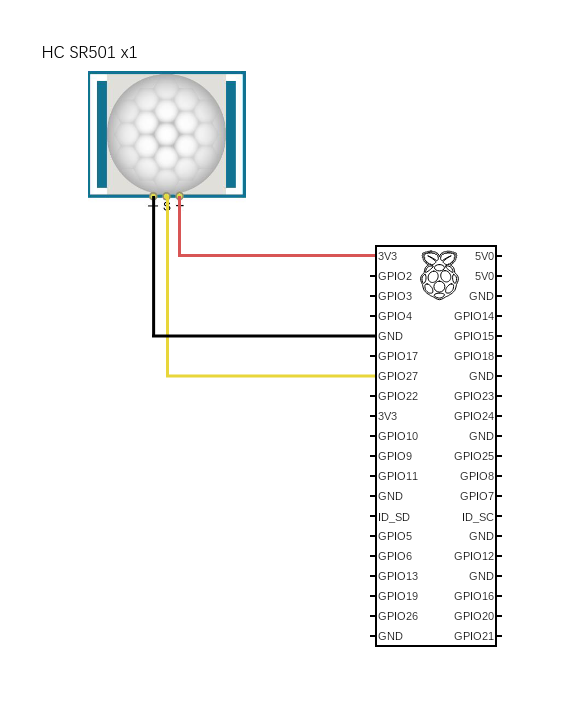
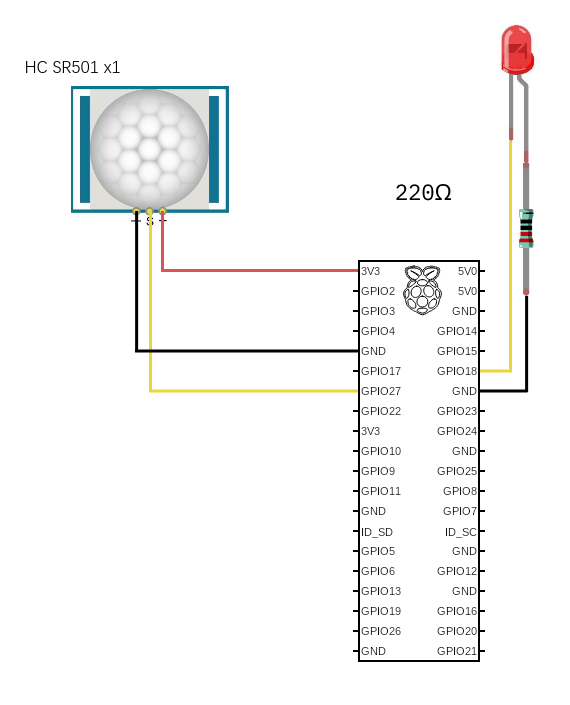
[Add] LED to indicate power and record

Changed region(s): [[0.0596, 0.0312, 0.9544, 0.9362], [0.686, 0.2496, 0.8053, 0.2809]]

diff --git a/sensor.py b/sensor.py
@@ -1,9 +1,8 @@
 import json
 import logging
-import sys
 from datetime import datetime
 from time import sleep
-from gpiozero import MotionSensor
+from gpiozero import MotionSensor, LED
 # from picamera import PiCamera
 
 
@@ -52,16 +51,20 @@ def start_sensor():
     :return:
     """
     sensor = MotionSensor(27)
+    led = LED(18)
     was_motion = False
     sensor.wait_for_no_motion()
     logging.info(f"[📡] Sensor initialized, timeout is {int((datetime.now() - sensor_timeout).total_seconds())} seconds")
+    led.on()
     while True:
         is_motion = sensor.value == 1
 
         if is_motion and not was_motion:
+            led.blink(0.5, 0.5, background=True)
             record()
             was_motion = True
         elif not is_motion and was_motion:
+            led.on()
             post_record()
             was_motion = False
 

diff --git a/README.md b/README.md
@@ -15,6 +15,7 @@ Un software open source d'affut vidéo pour Raspberry Pi, mais aussi un site web
 - Raspberry Pi 3B
   - Caméra nocturne
   - Détecteur de mouvements sur le GPIO27 (modèle `HC SR501`: [SENSOR.md]())
+  - Led sur le GPIO18 ([SENSOR.md]())
 - Batterie ?
 - Boîtier ?
 

diff --git a/SENSOR.md b/SENSOR.md
@@ -14,3 +14,4 @@ Schéma des branchements ci-dessous.
 
 
 ![Capteur HC SR501: Informations additionnelles](infos.png)
+0
